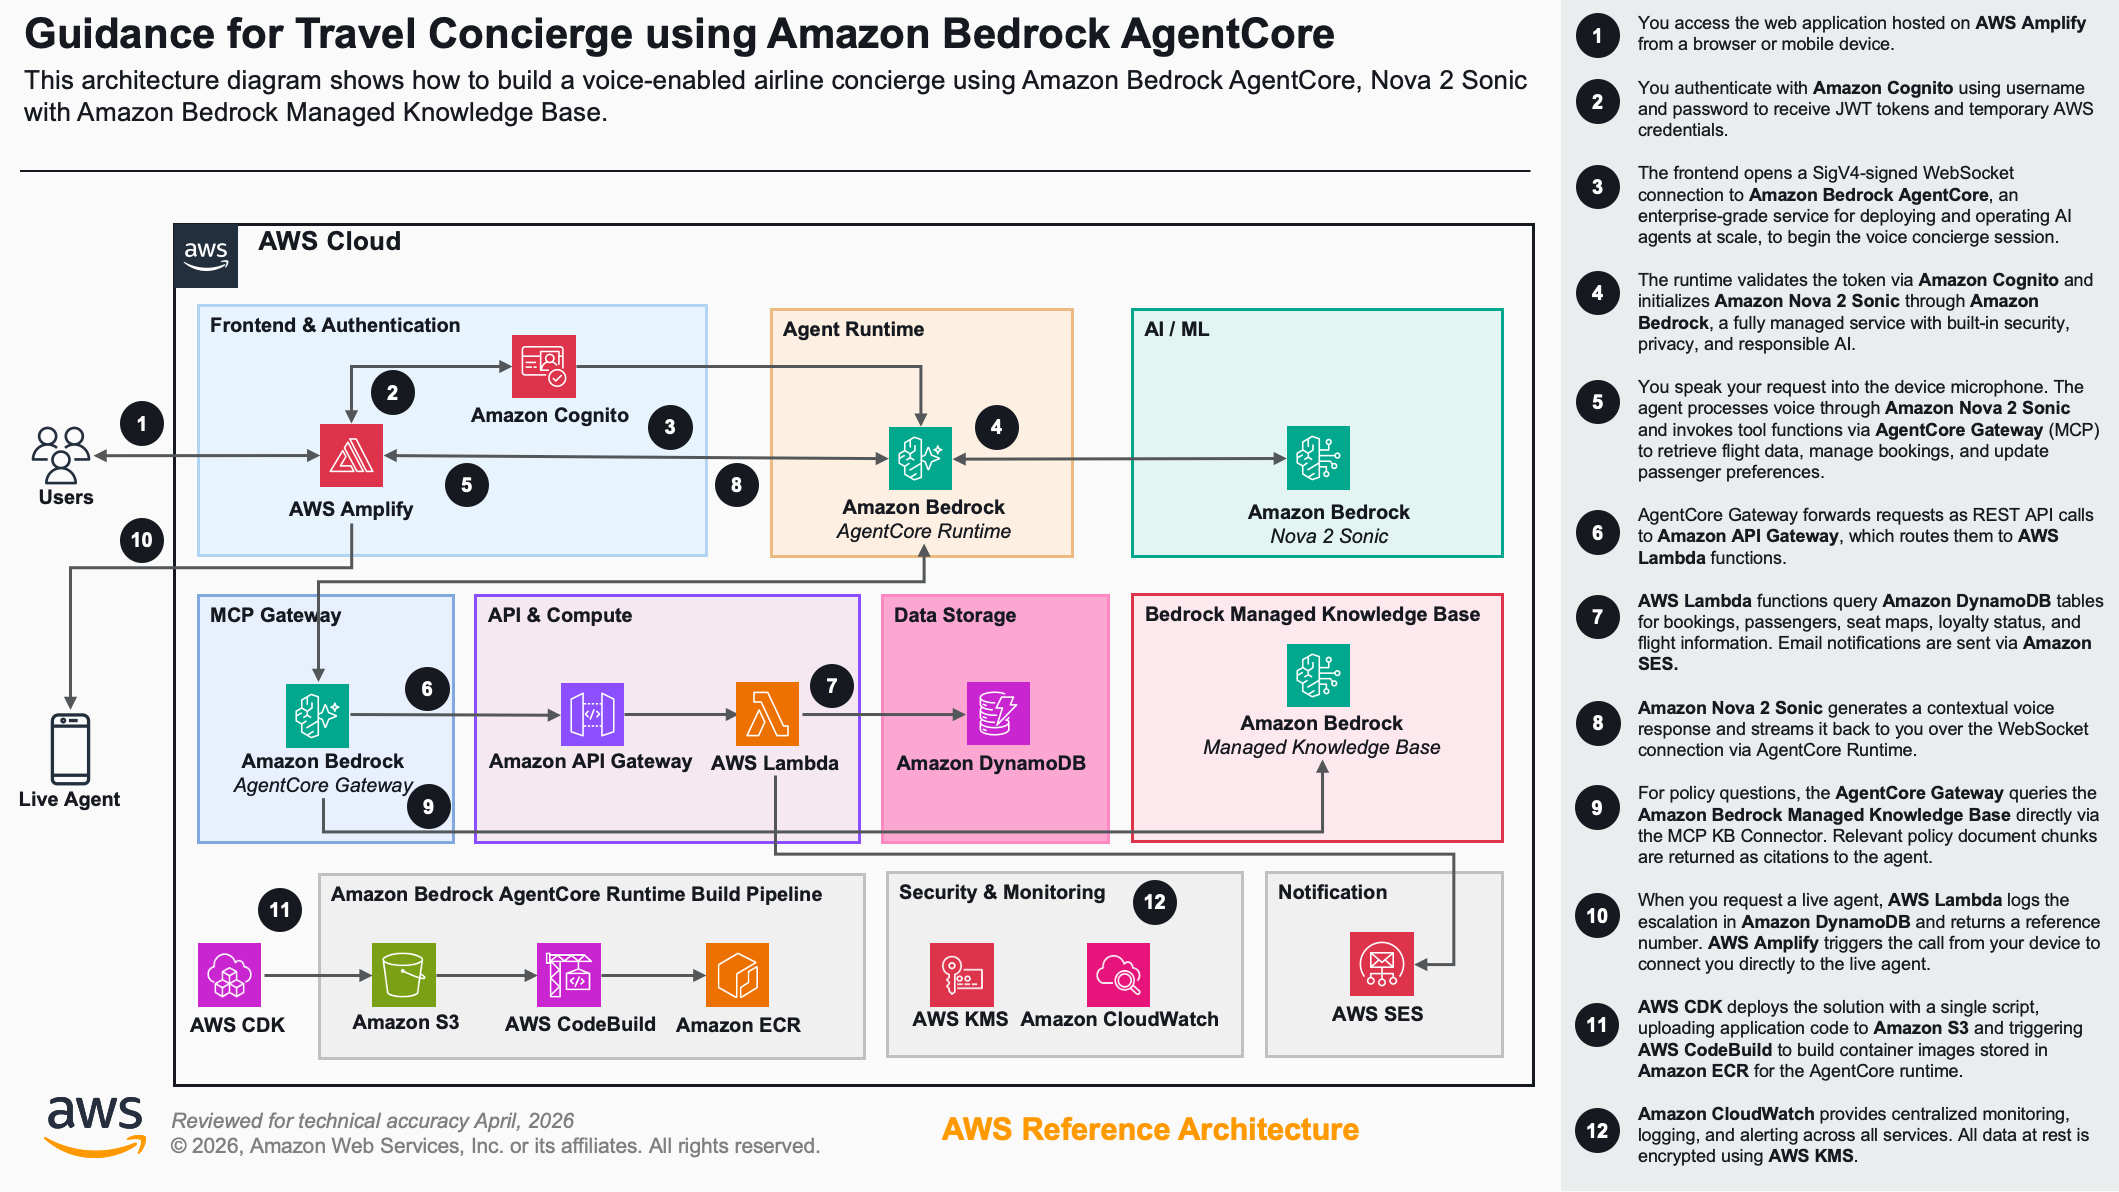
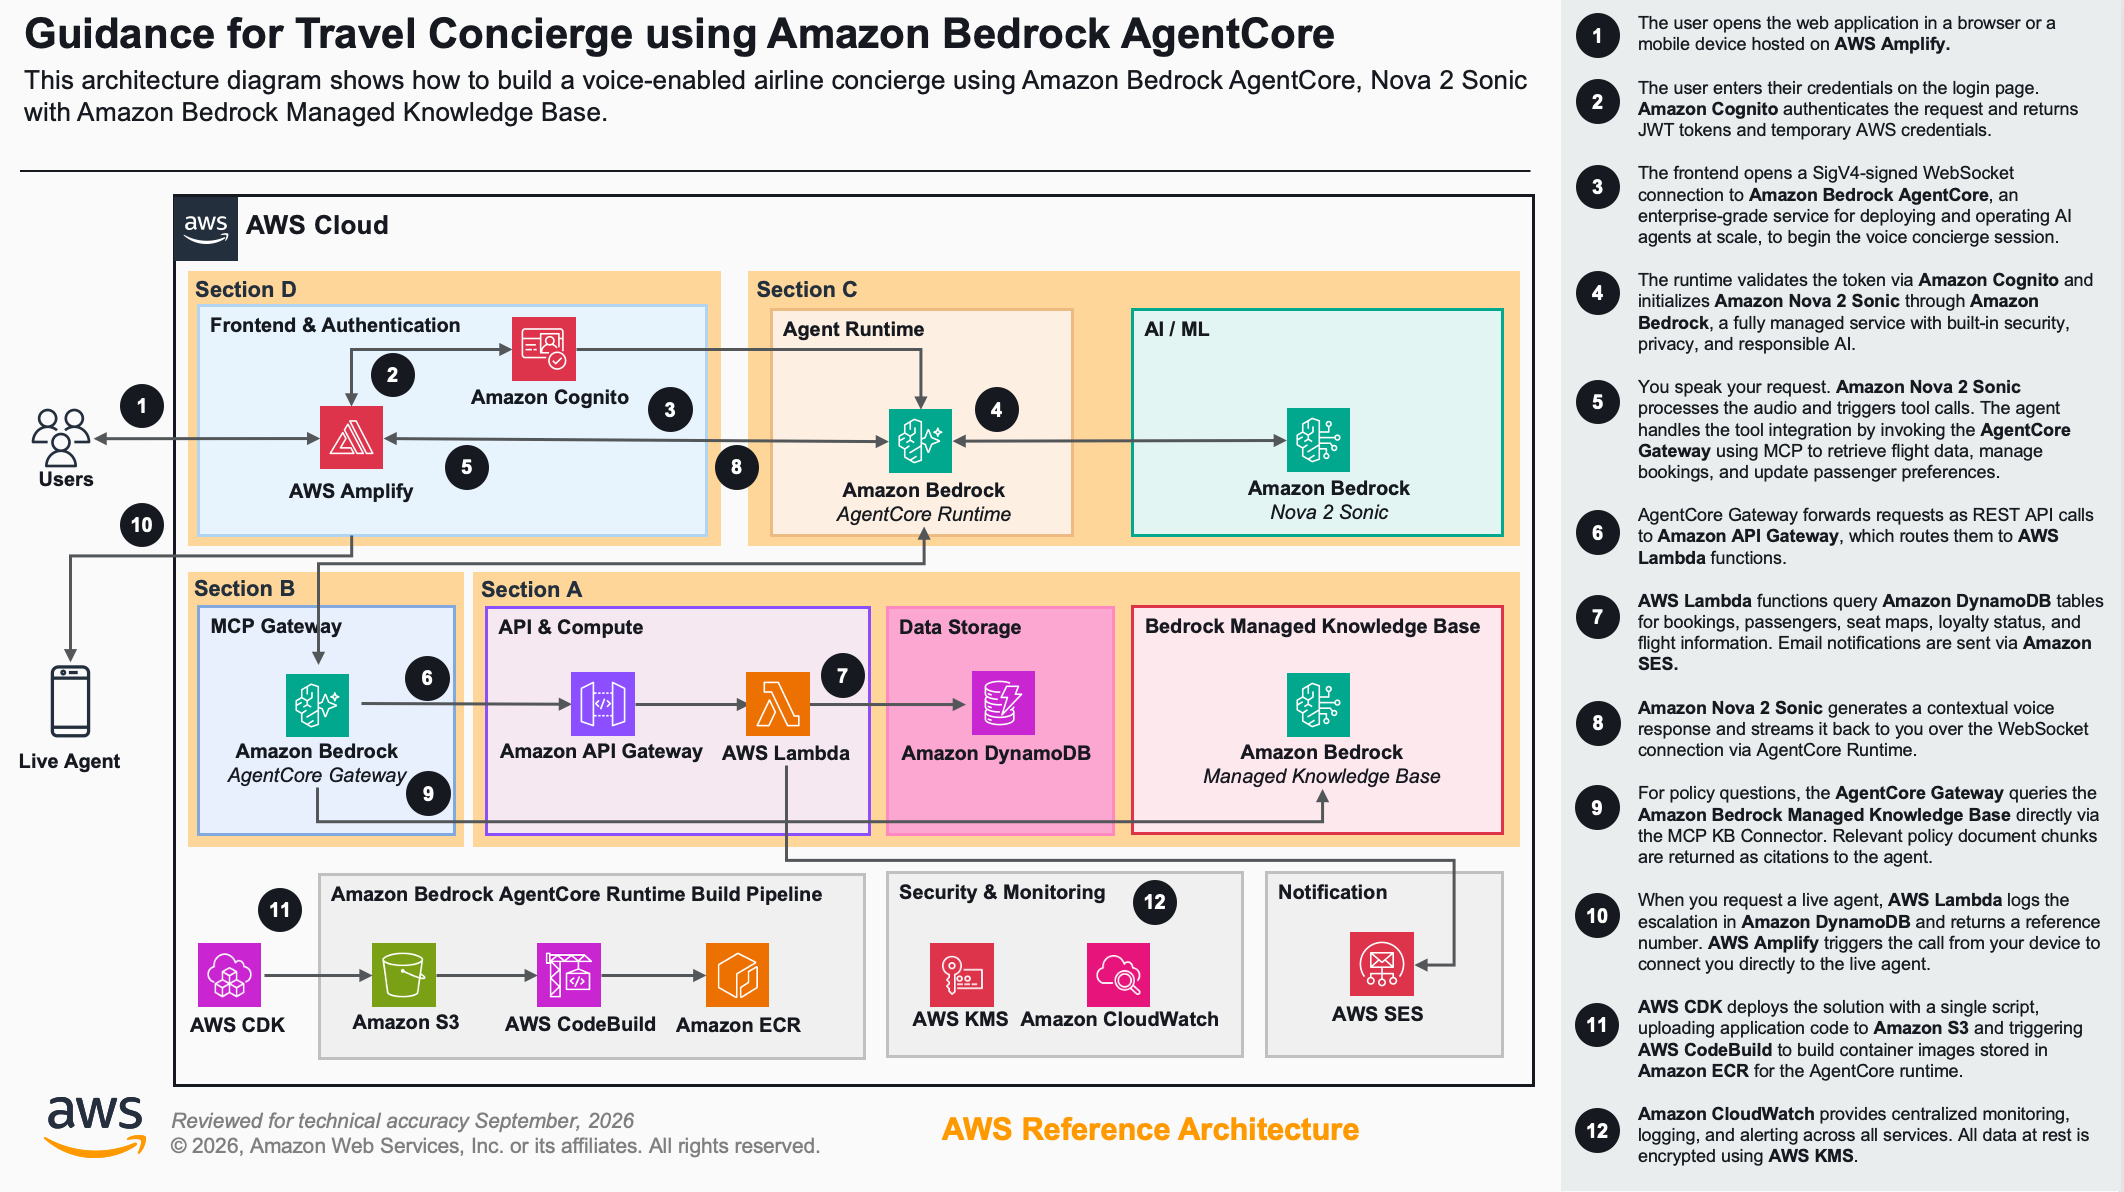
docs: Update architecture diagram and request flow steps

diff --git a/README.md b/README.md
@@ -43,17 +43,18 @@ The architecture implements a four-section decoupled pattern:
 
 ### User request flow
 
-1. You access the web application hosted on **AWS Amplify** from a browser or mobile device. You authenticate with **Amazon Cognito** using username and password to receive JWT tokens and temporary AWS credentials.
-2. The frontend opens a SigV4-signed WebSocket connection to **Amazon Bedrock AgentCore**, an enterprise-grade service for deploying and operating AI agents at scale, to begin the voice concierge session.
-3. The runtime validates the token via **Amazon Cognito** and initializes **Amazon Nova 2 Sonic** through **Amazon Bedrock**, a fully managed service with built-in security, privacy, and responsible AI.
-4. You speak your request. The agent processes voice through **Amazon Nova 2 Sonic** and invokes tool functions via **AWS Lambda** to retrieve flight data, manage bookings, and update passenger preferences.
-5. **Amazon Bedrock AgentCore Gateway** forwards requests as REST API calls to **Amazon API Gateway**, which routes them to **AWS Lambda** functions.
-6. **AWS Lambda** functions query **Amazon DynamoDB** tables for bookings, passengers, seat maps, loyalty status, and flight information. Email notifications are sent via **Amazon SES**.
-7. **Amazon Nova 2 Sonic** generates a contextual voice response and streams it back to you over the WebSocket connection via **Amazon Bedrock AgentCore Runtime**.
-8. When you request a live agent, **AWS Lambda** logs the escalation in **Amazon DynamoDB** and returns a reference number. **AWS Amplify** triggers the call from your device to connect you directly to the live agent.
+1. The user opens the web application in a browser or a mobile device hosted on **AWS Amplify**. 
+2. The user enters their credentials on the login page. **Amazon Cognito** authenticates the request and returns JWT tokens and temporary AWS credentials.
+3. The frontend opens a SigV4-signed WebSocket connection to **Amazon Bedrock AgentCore** to begin the voice concierge session.  
+4. The runtime validates the token via **Amazon Cognito** and initializes **Amazon Nova 2 Sonic** through **Amazon Bedrock**.
+5. You speak your request. **Amazon Nova 2 Sonic** processes the audio and triggers tool calls. The agent handles the tool integration by invoking the AgentCore Gateway using MCP to retrieve flight data, manage bookings, and update passenger preferences. 
+6. **Amazon Bedrock AgentCore Gateway** forwards requests as REST API calls to **Amazon API Gateway**, which routes them to **AWS Lambda** functions.
+7. **AWS Lambda** functions query **Amazon DynamoDB** tables for bookings, passengers, seat maps, loyalty status, and flight information. Email notifications are sent via **Amazon SES**.
+8. **Amazon Nova 2 Sonic** generates a contextual voice response and streams it back to you over the WebSocket connection via **Amazon Bedrock AgentCore Runtime**.
 9. For policy questions, **AWS Lambda** invokes the **Amazon Bedrock Knowledge Base** (Managed KB) which retrieves relevant airline policy excerpts from uploaded PDF documents and returns a grounded natural language answer.
-10. **AWS CDK** deploys the solution with a single script, uploading application code to **Amazon S3** and triggering **AWS CodeBuild** to build container images stored in **Amazon ECR** for the AgentCore runtime.
-11. **Amazon CloudWatch** provides centralized monitoring, logging, and alerting across all services. All data at rest is encrypted using **AWS KMS**.
+10. When you request a live agent, **AWS Lambda** logs the escalation in **Amazon DynamoDB** and returns a reference number. **AWS Amplify** then triggers the call from your device to connect you to the live agent. 
+11. **AWS CDK** deploys the solution with a single script, uploading application code to **Amazon S3** and triggering **AWS CodeBuild** to build container images stored in **Amazon ECR** for the AgentCore runtime.
+12. **Amazon CloudWatch** provides centralized monitoring, logging, and alerting across all services. All data at rest is encrypted using **AWS KMS**.
 
 ### Cost
 
